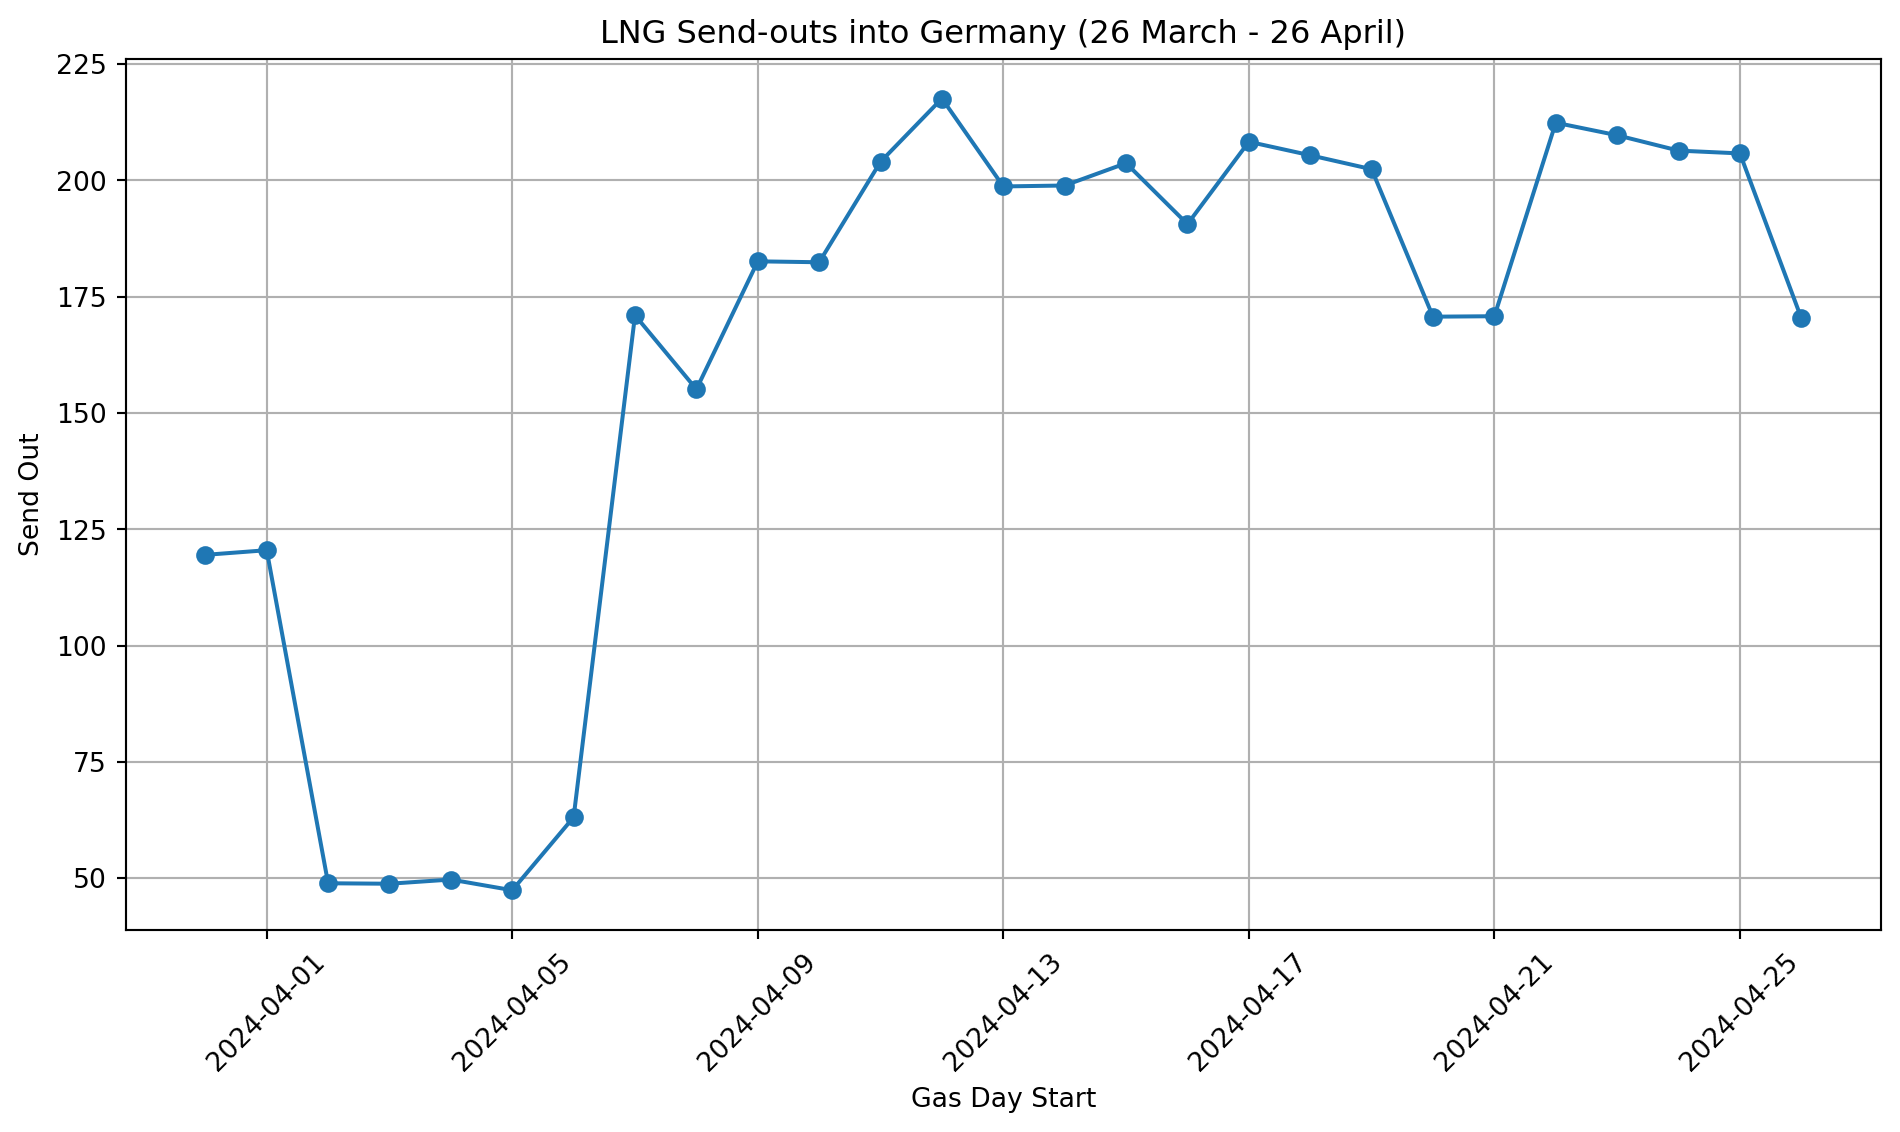
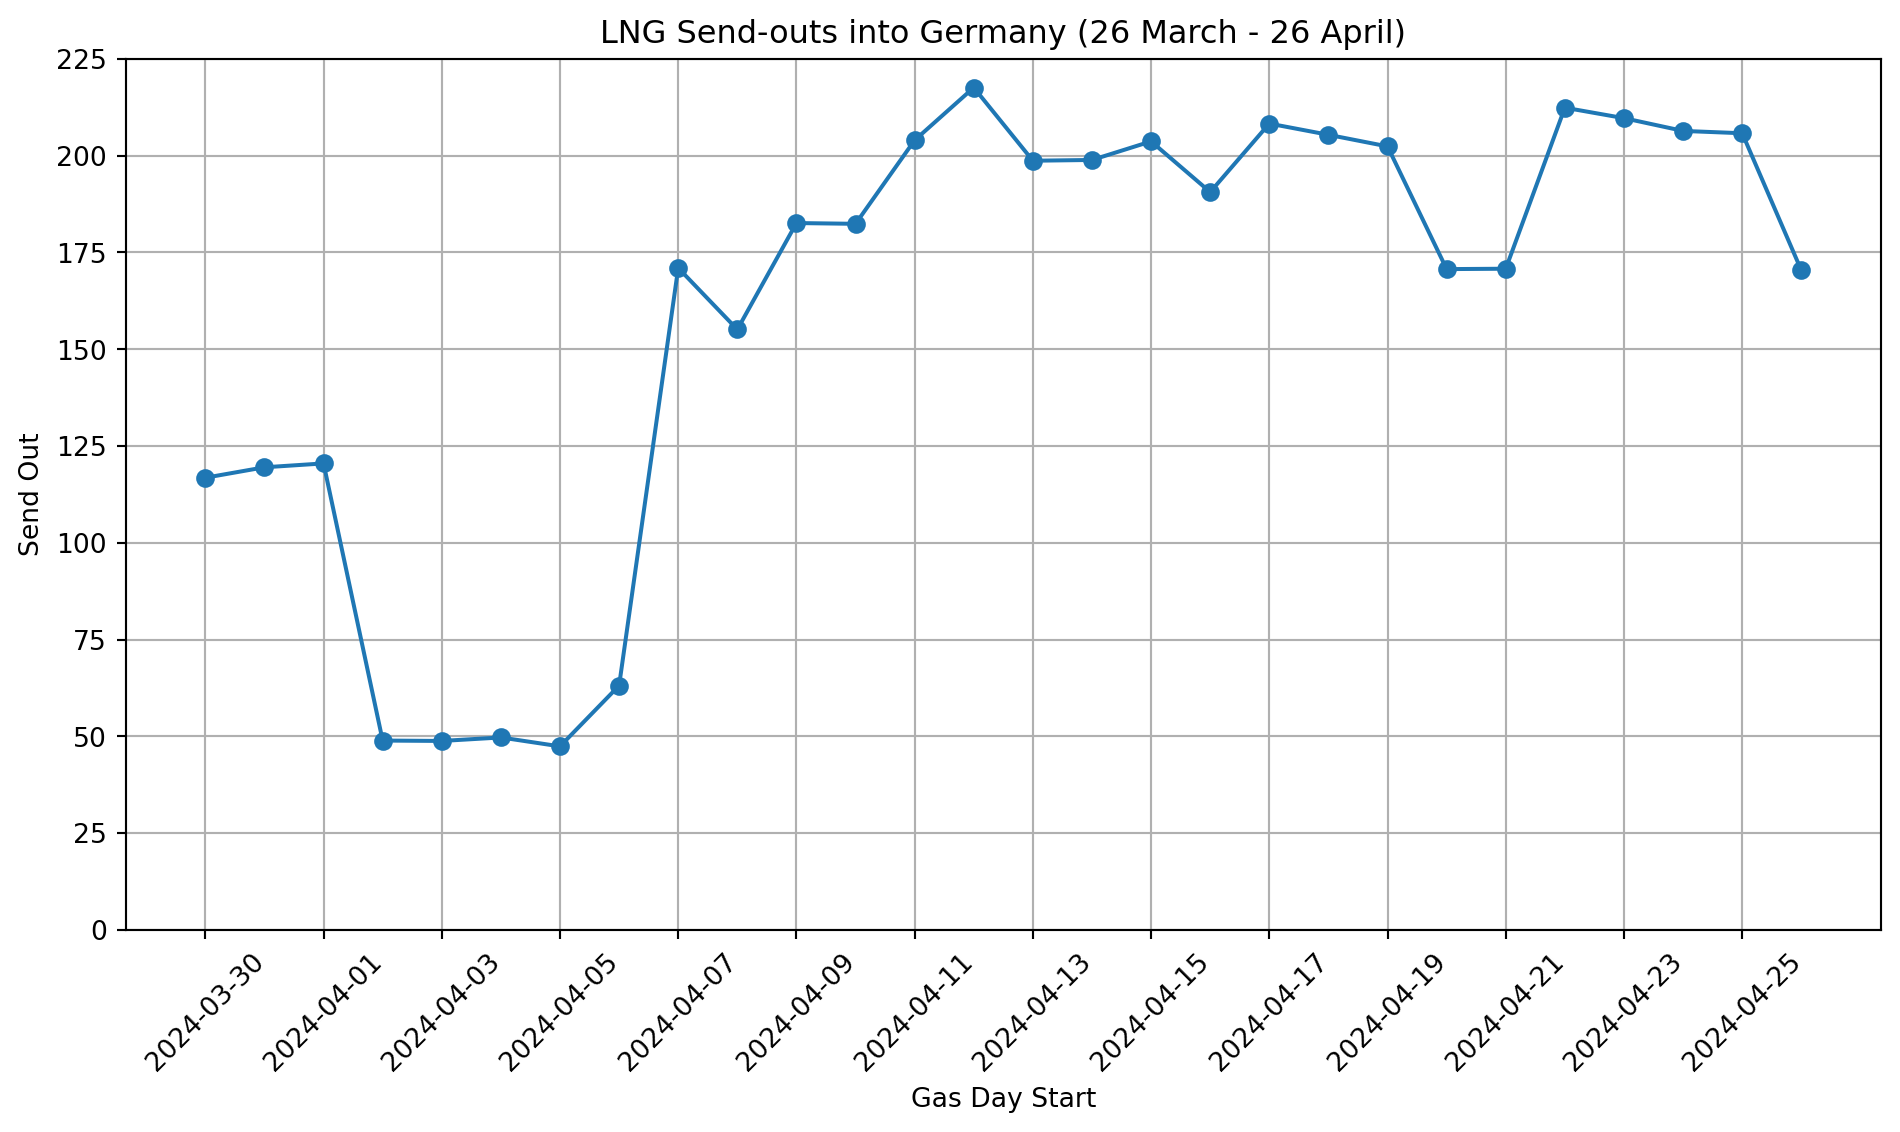
30Apr

diff --git a/Plot-LNG send-outs into Germany.html b/Plot-LNG send-outs into Germany.html
@@ -96,60 +96,70 @@ pre > code.sourceCode > span > a:first-child::before { text-decoration: underlin
 </header>
 
 
-<div id="5d241aeb" class="cell" data-execution_count="1">
-<div class="sourceCode cell-code" id="cb1"><pre class="sourceCode python code-with-copy"><code class="sourceCode python"><span id="cb1-1"><a href="#cb1-1" aria-hidden="true" tabindex="-1"></a><span class="co">### Bestttttttttttttt</span></span>
-<span id="cb1-2"><a href="#cb1-2" aria-hidden="true" tabindex="-1"></a><span class="im">import</span> requests</span>
-<span id="cb1-3"><a href="#cb1-3" aria-hidden="true" tabindex="-1"></a><span class="im">import</span> pandas <span class="im">as</span> pd</span>
-<span id="cb1-4"><a href="#cb1-4" aria-hidden="true" tabindex="-1"></a><span class="im">import</span> matplotlib.pyplot <span class="im">as</span> plt</span>
-<span id="cb1-5"><a href="#cb1-5" aria-hidden="true" tabindex="-1"></a></span>
-<span id="cb1-6"><a href="#cb1-6" aria-hidden="true" tabindex="-1"></a><span class="co"># Define the API endpoint URL</span></span>
-<span id="cb1-7"><a href="#cb1-7" aria-hidden="true" tabindex="-1"></a>url <span class="op">=</span> <span class="st">"https://alsi.gie.eu/api"</span></span>
+<div id="7bfc3c2b" class="cell" data-execution_count="1">
+<div class="sourceCode cell-code" id="cb1"><pre class="sourceCode python code-with-copy"><code class="sourceCode python"><span id="cb1-1"><a href="#cb1-1" aria-hidden="true" tabindex="-1"></a><span class="im">import</span> requests</span>
+<span id="cb1-2"><a href="#cb1-2" aria-hidden="true" tabindex="-1"></a><span class="im">import</span> pandas <span class="im">as</span> pd</span>
+<span id="cb1-3"><a href="#cb1-3" aria-hidden="true" tabindex="-1"></a><span class="im">import</span> matplotlib.pyplot <span class="im">as</span> plt</span>
+<span id="cb1-4"><a href="#cb1-4" aria-hidden="true" tabindex="-1"></a></span>
+<span id="cb1-5"><a href="#cb1-5" aria-hidden="true" tabindex="-1"></a><span class="co"># define API endpoint URL</span></span>
+<span id="cb1-6"><a href="#cb1-6" aria-hidden="true" tabindex="-1"></a>url <span class="op">=</span> <span class="st">"https://alsi.gie.eu/api"</span></span>
+<span id="cb1-7"><a href="#cb1-7" aria-hidden="true" tabindex="-1"></a></span>
 <span id="cb1-8"><a href="#cb1-8" aria-hidden="true" tabindex="-1"></a></span>
-<span id="cb1-9"><a href="#cb1-9" aria-hidden="true" tabindex="-1"></a><span class="co"># Parameters for the request</span></span>
-<span id="cb1-10"><a href="#cb1-10" aria-hidden="true" tabindex="-1"></a>params <span class="op">=</span> {</span>
-<span id="cb1-11"><a href="#cb1-11" aria-hidden="true" tabindex="-1"></a>    <span class="st">"country"</span>: <span class="st">"DE"</span>,</span>
-<span id="cb1-12"><a href="#cb1-12" aria-hidden="true" tabindex="-1"></a>    <span class="st">"key"</span>: <span class="st">"024f81699503eb41870b93732781370a"</span></span>
-<span id="cb1-13"><a href="#cb1-13" aria-hidden="true" tabindex="-1"></a>}</span>
-<span id="cb1-14"><a href="#cb1-14" aria-hidden="true" tabindex="-1"></a></span>
-<span id="cb1-15"><a href="#cb1-15" aria-hidden="true" tabindex="-1"></a><span class="co"># Make the GET request</span></span>
-<span id="cb1-16"><a href="#cb1-16" aria-hidden="true" tabindex="-1"></a>response <span class="op">=</span> requests.get(url, params<span class="op">=</span>params)</span>
-<span id="cb1-17"><a href="#cb1-17" aria-hidden="true" tabindex="-1"></a></span>
-<span id="cb1-18"><a href="#cb1-18" aria-hidden="true" tabindex="-1"></a><span class="co"># Check if the request was successful</span></span>
-<span id="cb1-19"><a href="#cb1-19" aria-hidden="true" tabindex="-1"></a><span class="cf">if</span> response.status_code <span class="op">==</span> <span class="dv">200</span>:</span>
-<span id="cb1-20"><a href="#cb1-20" aria-hidden="true" tabindex="-1"></a>    <span class="co"># Extract JSON data from the response</span></span>
-<span id="cb1-21"><a href="#cb1-21" aria-hidden="true" tabindex="-1"></a>    data <span class="op">=</span> response.json()</span>
-<span id="cb1-22"><a href="#cb1-22" aria-hidden="true" tabindex="-1"></a>    </span>
-<span id="cb1-23"><a href="#cb1-23" aria-hidden="true" tabindex="-1"></a>    <span class="co"># Extract the 'data' key which contains the list of dictionaries</span></span>
-<span id="cb1-24"><a href="#cb1-24" aria-hidden="true" tabindex="-1"></a>    data_list <span class="op">=</span> data.get(<span class="st">'data'</span>, [])</span>
-<span id="cb1-25"><a href="#cb1-25" aria-hidden="true" tabindex="-1"></a>    </span>
-<span id="cb1-26"><a href="#cb1-26" aria-hidden="true" tabindex="-1"></a>    <span class="co"># Convert the list of dictionaries into a DataFrame</span></span>
-<span id="cb1-27"><a href="#cb1-27" aria-hidden="true" tabindex="-1"></a>    df <span class="op">=</span> pd.DataFrame(data_list)</span>
-<span id="cb1-28"><a href="#cb1-28" aria-hidden="true" tabindex="-1"></a>    </span>
-<span id="cb1-29"><a href="#cb1-29" aria-hidden="true" tabindex="-1"></a>    <span class="co"># Convert 'sendOut' column to numeric type</span></span>
-<span id="cb1-30"><a href="#cb1-30" aria-hidden="true" tabindex="-1"></a>    df[<span class="st">'sendOut'</span>] <span class="op">=</span> pd.to_numeric(df[<span class="st">'sendOut'</span>], errors<span class="op">=</span><span class="st">'coerce'</span>)</span>
-<span id="cb1-31"><a href="#cb1-31" aria-hidden="true" tabindex="-1"></a>    </span>
-<span id="cb1-32"><a href="#cb1-32" aria-hidden="true" tabindex="-1"></a>    <span class="co"># Convert 'gasDayStart' column to datetime type</span></span>
-<span id="cb1-33"><a href="#cb1-33" aria-hidden="true" tabindex="-1"></a>    df[<span class="st">'gasDayStart'</span>] <span class="op">=</span> pd.to_datetime(df[<span class="st">'gasDayStart'</span>])</span>
-<span id="cb1-34"><a href="#cb1-34" aria-hidden="true" tabindex="-1"></a>    </span>
-<span id="cb1-35"><a href="#cb1-35" aria-hidden="true" tabindex="-1"></a>    <span class="co"># Filter data for dates between 26 March and 26 April</span></span>
-<span id="cb1-36"><a href="#cb1-36" aria-hidden="true" tabindex="-1"></a>    filtered_df <span class="op">=</span> df[(df[<span class="st">'gasDayStart'</span>] <span class="op">&gt;=</span> <span class="st">'2024-03-26'</span>) <span class="op">&amp;</span> (df[<span class="st">'gasDayStart'</span>] <span class="op">&lt;=</span> <span class="st">'2024-04-26'</span>)]</span>
-<span id="cb1-37"><a href="#cb1-37" aria-hidden="true" tabindex="-1"></a>    </span>
-<span id="cb1-38"><a href="#cb1-38" aria-hidden="true" tabindex="-1"></a>    <span class="co"># Sort the DataFrame by 'gasDayStart'</span></span>
-<span id="cb1-39"><a href="#cb1-39" aria-hidden="true" tabindex="-1"></a>    filtered_df <span class="op">=</span> filtered_df.sort_values(by<span class="op">=</span><span class="st">'gasDayStart'</span>)</span>
-<span id="cb1-40"><a href="#cb1-40" aria-hidden="true" tabindex="-1"></a>    </span>
-<span id="cb1-41"><a href="#cb1-41" aria-hidden="true" tabindex="-1"></a>    <span class="co"># Plot the data</span></span>
-<span id="cb1-42"><a href="#cb1-42" aria-hidden="true" tabindex="-1"></a>    plt.figure(figsize<span class="op">=</span>(<span class="dv">10</span>, <span class="dv">6</span>))</span>
-<span id="cb1-43"><a href="#cb1-43" aria-hidden="true" tabindex="-1"></a>    plt.plot(filtered_df[<span class="st">'gasDayStart'</span>], filtered_df[<span class="st">'sendOut'</span>], marker<span class="op">=</span><span class="st">'o'</span>, linestyle<span class="op">=</span><span class="st">'-'</span>)</span>
-<span id="cb1-44"><a href="#cb1-44" aria-hidden="true" tabindex="-1"></a>    plt.title(<span class="st">'LNG Send-outs into Germany (26 March - 26 April)'</span>)</span>
-<span id="cb1-45"><a href="#cb1-45" aria-hidden="true" tabindex="-1"></a>    plt.xlabel(<span class="st">'Gas Day Start'</span>)</span>
-<span id="cb1-46"><a href="#cb1-46" aria-hidden="true" tabindex="-1"></a>    plt.ylabel(<span class="st">'Send Out'</span>)</span>
-<span id="cb1-47"><a href="#cb1-47" aria-hidden="true" tabindex="-1"></a>    plt.grid(<span class="va">True</span>)</span>
-<span id="cb1-48"><a href="#cb1-48" aria-hidden="true" tabindex="-1"></a>    plt.xticks(rotation<span class="op">=</span><span class="dv">45</span>)</span>
-<span id="cb1-49"><a href="#cb1-49" aria-hidden="true" tabindex="-1"></a>    plt.tight_layout()</span>
-<span id="cb1-50"><a href="#cb1-50" aria-hidden="true" tabindex="-1"></a>    plt.show()</span>
+<span id="cb1-9"><a href="#cb1-9" aria-hidden="true" tabindex="-1"></a>params <span class="op">=</span> {</span>
+<span id="cb1-10"><a href="#cb1-10" aria-hidden="true" tabindex="-1"></a>    <span class="st">"country"</span>: <span class="st">"DE"</span>,</span>
+<span id="cb1-11"><a href="#cb1-11" aria-hidden="true" tabindex="-1"></a>    <span class="st">"key"</span>: <span class="st">"024f81699503eb41870b93732781370a"</span></span>
+<span id="cb1-12"><a href="#cb1-12" aria-hidden="true" tabindex="-1"></a>}</span>
+<span id="cb1-13"><a href="#cb1-13" aria-hidden="true" tabindex="-1"></a></span>
+<span id="cb1-14"><a href="#cb1-14" aria-hidden="true" tabindex="-1"></a><span class="co"># making  'GET request'</span></span>
+<span id="cb1-15"><a href="#cb1-15" aria-hidden="true" tabindex="-1"></a>response <span class="op">=</span> requests.get(url, params<span class="op">=</span>params)</span>
+<span id="cb1-16"><a href="#cb1-16" aria-hidden="true" tabindex="-1"></a></span>
+<span id="cb1-17"><a href="#cb1-17" aria-hidden="true" tabindex="-1"></a><span class="cf">if</span> response.status_code <span class="op">==</span> <span class="dv">200</span>:</span>
+<span id="cb1-18"><a href="#cb1-18" aria-hidden="true" tabindex="-1"></a>    <span class="co"># extracting JSON data</span></span>
+<span id="cb1-19"><a href="#cb1-19" aria-hidden="true" tabindex="-1"></a>    data <span class="op">=</span> response.json()</span>
+<span id="cb1-20"><a href="#cb1-20" aria-hidden="true" tabindex="-1"></a>    </span>
+<span id="cb1-21"><a href="#cb1-21" aria-hidden="true" tabindex="-1"></a>    <span class="co"># extract the 'data' key which contains list of dictionaries for converting list of dictionaries into the dataframe</span></span>
+<span id="cb1-22"><a href="#cb1-22" aria-hidden="true" tabindex="-1"></a>    data_list <span class="op">=</span> data.get(<span class="st">'data'</span>, [])</span>
+<span id="cb1-23"><a href="#cb1-23" aria-hidden="true" tabindex="-1"></a>    </span>
+<span id="cb1-24"><a href="#cb1-24" aria-hidden="true" tabindex="-1"></a>     </span>
+<span id="cb1-25"><a href="#cb1-25" aria-hidden="true" tabindex="-1"></a>    df <span class="op">=</span> pd.DataFrame(data_list)</span>
+<span id="cb1-26"><a href="#cb1-26" aria-hidden="true" tabindex="-1"></a>    </span>
+<span id="cb1-27"><a href="#cb1-27" aria-hidden="true" tabindex="-1"></a>    <span class="co"># converting 'sendout' column to numeric type</span></span>
+<span id="cb1-28"><a href="#cb1-28" aria-hidden="true" tabindex="-1"></a>    df[<span class="st">'sendOut'</span>] <span class="op">=</span> pd.to_numeric(df[<span class="st">'sendOut'</span>], errors<span class="op">=</span><span class="st">'coerce'</span>)</span>
+<span id="cb1-29"><a href="#cb1-29" aria-hidden="true" tabindex="-1"></a>    </span>
+<span id="cb1-30"><a href="#cb1-30" aria-hidden="true" tabindex="-1"></a>    <span class="co"># converting 'gasdaystart' column to datetime type</span></span>
+<span id="cb1-31"><a href="#cb1-31" aria-hidden="true" tabindex="-1"></a>    df[<span class="st">'gasDayStart'</span>] <span class="op">=</span> pd.to_datetime(df[<span class="st">'gasDayStart'</span>])</span>
+<span id="cb1-32"><a href="#cb1-32" aria-hidden="true" tabindex="-1"></a>    </span>
+<span id="cb1-33"><a href="#cb1-33" aria-hidden="true" tabindex="-1"></a>    <span class="co"># filtering data between 26 march to 26 april</span></span>
+<span id="cb1-34"><a href="#cb1-34" aria-hidden="true" tabindex="-1"></a>    filtered_df <span class="op">=</span> df[(df[<span class="st">'gasDayStart'</span>] <span class="op">&gt;=</span> <span class="st">'2024-03-26'</span>) <span class="op">&amp;</span> (df[<span class="st">'gasDayStart'</span>] <span class="op">&lt;=</span> <span class="st">'2024-04-26'</span>)]</span>
+<span id="cb1-35"><a href="#cb1-35" aria-hidden="true" tabindex="-1"></a>    </span>
+<span id="cb1-36"><a href="#cb1-36" aria-hidden="true" tabindex="-1"></a>    <span class="co"># sorting dataframe</span></span>
+<span id="cb1-37"><a href="#cb1-37" aria-hidden="true" tabindex="-1"></a>    filtered_df <span class="op">=</span> filtered_df.sort_values(by<span class="op">=</span><span class="st">'gasDayStart'</span>)</span>
+<span id="cb1-38"><a href="#cb1-38" aria-hidden="true" tabindex="-1"></a>    </span>
+<span id="cb1-39"><a href="#cb1-39" aria-hidden="true" tabindex="-1"></a>    <span class="co"># checking if data for 26 march exists, if not add it</span></span>
+<span id="cb1-40"><a href="#cb1-40" aria-hidden="true" tabindex="-1"></a>    <span class="cf">if</span> <span class="kw">not</span> <span class="bu">any</span>(filtered_df[<span class="st">'gasDayStart'</span>] <span class="op">==</span> <span class="st">'2024-03-26'</span>):</span>
+<span id="cb1-41"><a href="#cb1-41" aria-hidden="true" tabindex="-1"></a>        </span>
+<span id="cb1-42"><a href="#cb1-42" aria-hidden="true" tabindex="-1"></a>        data_26_march <span class="op">=</span> df[df[<span class="st">'gasDayStart'</span>] <span class="op">==</span> <span class="st">'2024-03-26'</span>]</span>
+<span id="cb1-43"><a href="#cb1-43" aria-hidden="true" tabindex="-1"></a>        filtered_df <span class="op">=</span> pd.concat([filtered_df, data_26_march], ignore_index<span class="op">=</span><span class="va">True</span>)</span>
+<span id="cb1-44"><a href="#cb1-44" aria-hidden="true" tabindex="-1"></a>    </span>
+<span id="cb1-45"><a href="#cb1-45" aria-hidden="true" tabindex="-1"></a>    <span class="co"># plot</span></span>
+<span id="cb1-46"><a href="#cb1-46" aria-hidden="true" tabindex="-1"></a>    plt.figure(figsize<span class="op">=</span>(<span class="dv">10</span>, <span class="dv">6</span>))</span>
+<span id="cb1-47"><a href="#cb1-47" aria-hidden="true" tabindex="-1"></a>    plt.plot(filtered_df[<span class="st">'gasDayStart'</span>], filtered_df[<span class="st">'sendOut'</span>], marker<span class="op">=</span><span class="st">'o'</span>, linestyle<span class="op">=</span><span class="st">'-'</span>)</span>
+<span id="cb1-48"><a href="#cb1-48" aria-hidden="true" tabindex="-1"></a>    </span>
+<span id="cb1-49"><a href="#cb1-49" aria-hidden="true" tabindex="-1"></a>    </span>
+<span id="cb1-50"><a href="#cb1-50" aria-hidden="true" tabindex="-1"></a>    plt.ylim(<span class="dv">0</span>, <span class="dv">225</span>)</span>
 <span id="cb1-51"><a href="#cb1-51" aria-hidden="true" tabindex="-1"></a>    </span>
-<span id="cb1-52"><a href="#cb1-52" aria-hidden="true" tabindex="-1"></a><span class="cf">else</span>:</span>
-<span id="cb1-53"><a href="#cb1-53" aria-hidden="true" tabindex="-1"></a>    <span class="bu">print</span>(<span class="st">"Error:"</span>, response.status_code)</span></code><button title="Copy to Clipboard" class="code-copy-button"><i class="bi"></i></button></pre></div>
+<span id="cb1-52"><a href="#cb1-52" aria-hidden="true" tabindex="-1"></a>    </span>
+<span id="cb1-53"><a href="#cb1-53" aria-hidden="true" tabindex="-1"></a>    plt.xticks(filtered_df[<span class="st">'gasDayStart'</span>][::<span class="dv">2</span>], rotation<span class="op">=</span><span class="dv">45</span>)</span>
+<span id="cb1-54"><a href="#cb1-54" aria-hidden="true" tabindex="-1"></a>    </span>
+<span id="cb1-55"><a href="#cb1-55" aria-hidden="true" tabindex="-1"></a>    plt.title(<span class="st">'LNG Send-outs into Germany (26 March - 26 April)'</span>)</span>
+<span id="cb1-56"><a href="#cb1-56" aria-hidden="true" tabindex="-1"></a>    plt.xlabel(<span class="st">'Gas Day Start'</span>)</span>
+<span id="cb1-57"><a href="#cb1-57" aria-hidden="true" tabindex="-1"></a>    plt.ylabel(<span class="st">'Send Out'</span>)</span>
+<span id="cb1-58"><a href="#cb1-58" aria-hidden="true" tabindex="-1"></a>    plt.grid(<span class="va">True</span>)</span>
+<span id="cb1-59"><a href="#cb1-59" aria-hidden="true" tabindex="-1"></a>    plt.tight_layout()</span>
+<span id="cb1-60"><a href="#cb1-60" aria-hidden="true" tabindex="-1"></a>    plt.show()</span>
+<span id="cb1-61"><a href="#cb1-61" aria-hidden="true" tabindex="-1"></a>    </span>
+<span id="cb1-62"><a href="#cb1-62" aria-hidden="true" tabindex="-1"></a><span class="cf">else</span>:</span>
+<span id="cb1-63"><a href="#cb1-63" aria-hidden="true" tabindex="-1"></a>    <span class="bu">print</span>(<span class="st">"Error:"</span>, response.status_code)</span></code><button title="Copy to Clipboard" class="code-copy-button"><i class="bi"></i></button></pre></div>
 <div class="cell-output cell-output-display">
 <div>
 <figure class="figure">
